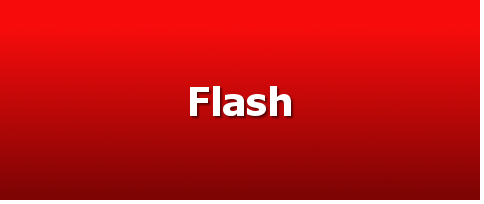
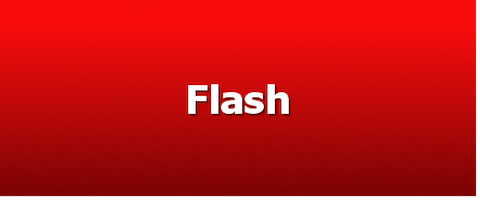
fix size

Changed region(s): [[0.375, 0.42, 0.625, 0.57]]

diff --git a/app/models/post.rb b/app/models/post.rb
@@ -235,7 +235,7 @@ class Post < ActiveRecord::Base
     
     def medium_image_height
       if is_flash?
-        return 150
+        return 204
       end
       
       ratio = Danbooru.config.medium_image_width.to_f / image_width.to_f
